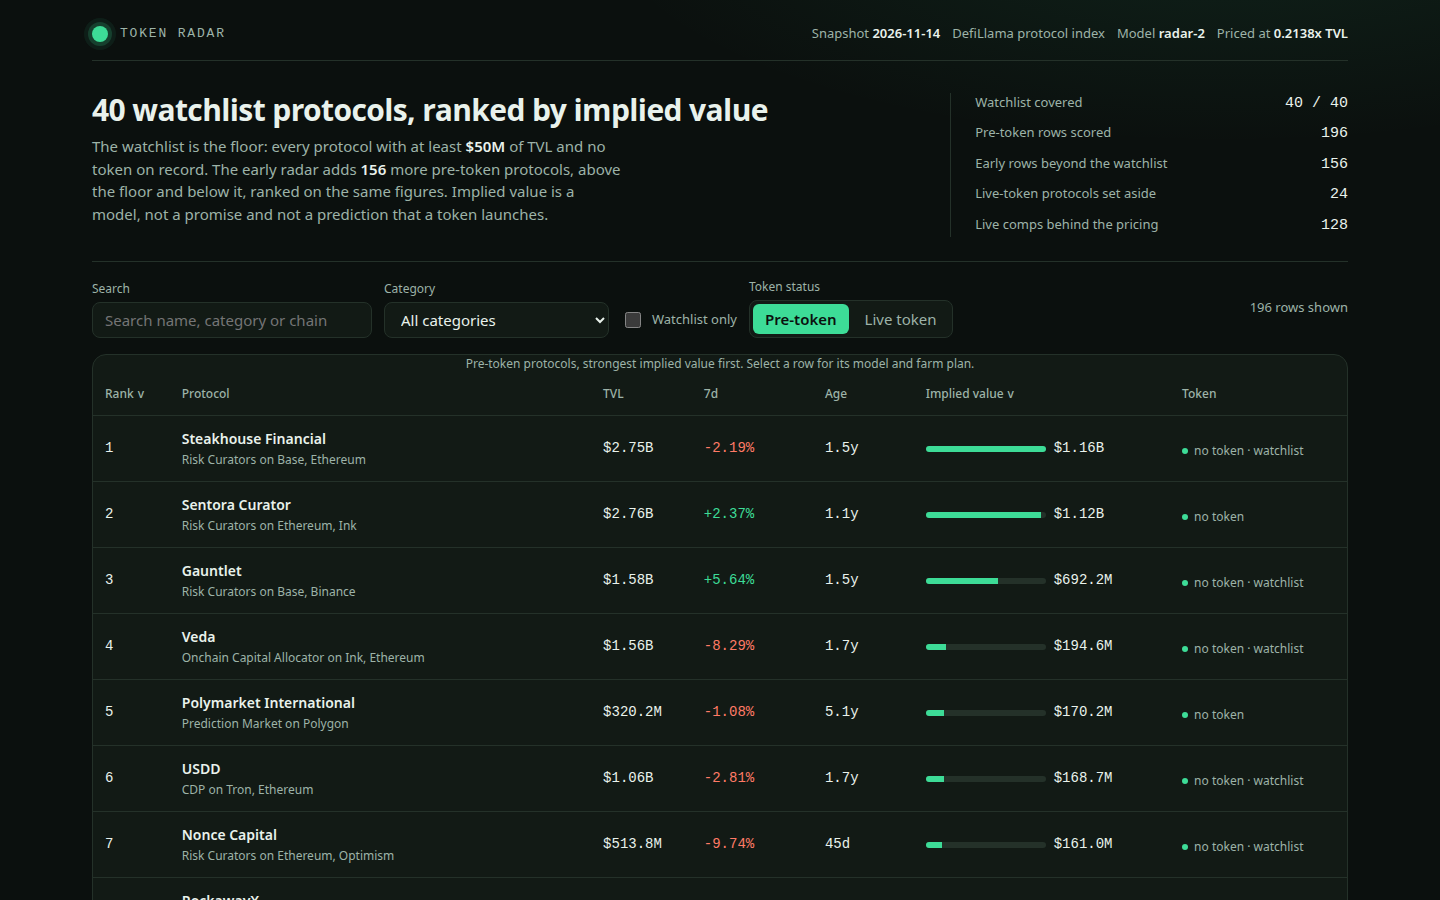
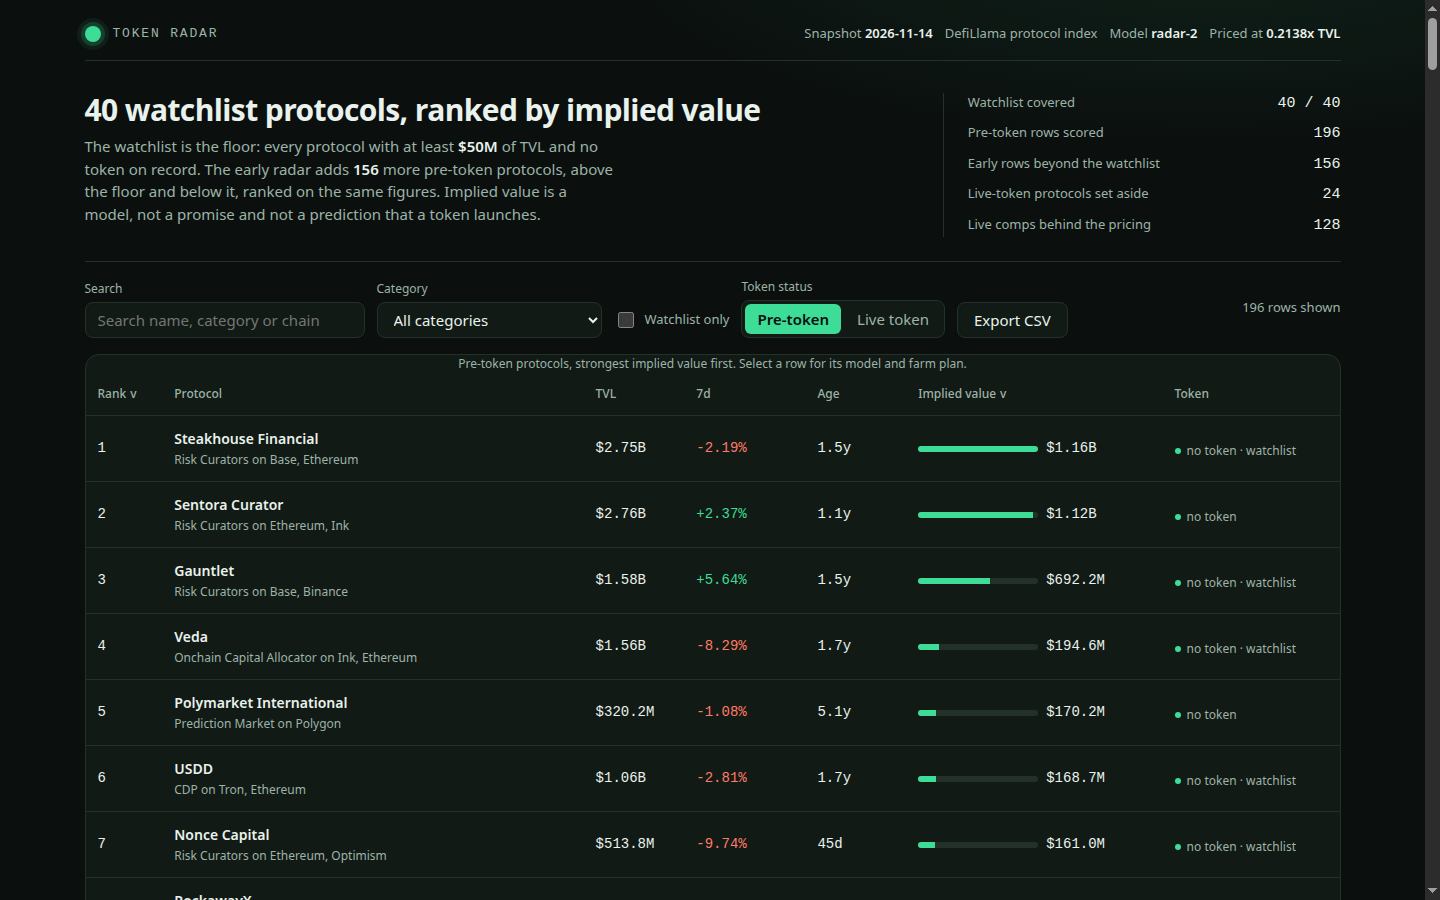
Add copy farm plan, export CSV, fix detail grammar (round 2)

diff --git a/dashboard/app.js b/dashboard/app.js
@@ -33,6 +33,7 @@
     if (days >= 365) return (days / 365).toFixed(1) + 'y';
     return Math.max(0, Math.round(days)) + 'd';
   }
+  function plural(n, one, many) { return n === 1 ? one : many; }
   function round4(n) { return Math.round(n * 1e4) / 1e4; }
   function median(values) {
     if (!values.length) return null;
@@ -210,6 +211,36 @@
     ].map(stepText);
   }
 
+  // The farm plan as plain text, for the copy button: one numbered line per step,
+  // headed with the protocol and the snapshot it was priced from.
+  function farmPlanText(row, steps) {
+    var lines = [row.name + ' — farm plan (Token Radar, snapshot ' + DATA.as_of + ')'];
+    steps.forEach(function (s, i) { lines.push((i + 1) + '. ' + s); });
+    lines.push('Implied value is a model, not a price. Not financial advice.');
+    return lines.join('\n');
+  }
+  // Copy with the Clipboard API where it exists, falling back to a hidden
+  // textarea and execCommand, which still works on older browsers and in
+  // pages served from a file. The callback reports whether it worked.
+  function copyText(text, done) {
+    function fallback() {
+      var ta = document.createElement('textarea');
+      ta.value = text;
+      ta.setAttribute('readonly', '');
+      ta.style.position = 'fixed';
+      ta.style.opacity = '0';
+      document.body.appendChild(ta);
+      ta.select();
+      var ok = false;
+      try { ok = document.execCommand('copy'); } catch (e) { ok = false; }
+      document.body.removeChild(ta);
+      done(ok);
+    }
+    if (navigator.clipboard && navigator.clipboard.writeText) {
+      navigator.clipboard.writeText(text).then(function () { done(true); }, function () { fallback(); });
+    } else fallback();
+  }
+
   function readHash() {
     var hash = window.location.hash.replace(/^#/, '');
     if (!hash) return;
@@ -255,6 +286,47 @@
       if (av > bv) return state.dir;
       return a.slug < b.slug ? -1 : a.slug > b.slug ? 1 : 0;
     });
+  }
+
+  // CSV export of the rows the board is showing right now: the same filters
+  // (search, category, watchlist, tab) and the same sort order as the table.
+  // Values are quoted when they hold a comma, a quote or a newline.
+  function csvCell(v) {
+    var s = v === null || v === undefined ? '' : String(v);
+    if (/[",\n]/.test(s)) return '"' + s.replace(/"/g, '""') + '"';
+    return s;
+  }
+  function downloadCsv(filename, text) {
+    var blob = new Blob([text], { type: 'text/csv;charset=utf-8' });
+    var url = URL.createObjectURL(blob);
+    var a = document.createElement('a');
+    a.href = url;
+    a.download = filename;
+    document.body.appendChild(a);
+    a.click();
+    document.body.removeChild(a);
+    window.setTimeout(function () { URL.revokeObjectURL(url); }, 1000);
+  }
+  function exportCsv() {
+    var live = state.tab === 'live';
+    var list = live ? DATA.live : sortedRows(rows());
+    var header = live
+      ? ['status', 'protocol', 'category', 'chains', 'tvl_usd', 'change_7d_pct', 'age_days', 'mcap_usd']
+      : ['rank', 'protocol', 'category', 'chains', 'tvl_usd', 'change_7d_pct', 'age_days', 'implied_value_usd'];
+    var lines = [header.map(csvCell).join(',')];
+    list.forEach(function (r) {
+      lines.push([
+        live ? 'live' : r.rank,
+        r.name,
+        r.category || '',
+        (r.chains || []).join('; '),
+        r.tvl_usd,
+        r.change_7d === null || r.change_7d === undefined ? '' : r.change_7d,
+        r.age_days === null || r.age_days === undefined ? '' : r.age_days,
+        live ? (r.mcap_usd === null || r.mcap_usd === undefined ? '' : r.mcap_usd) : r.implied_value_usd
+      ].map(csvCell).join(','));
+    });
+    downloadCsv('token-radar-' + (live ? 'live' : 'board') + '.csv', lines.join('\r\n') + '\r\n');
   }
 
   function header() {
@@ -309,6 +381,7 @@
       el('div', { class: 'field' }, el('label', { for: 'category', text: 'Category' }), select),
       el('label', { class: 'check', for: 'watchlist' }, watch, 'Watchlist only'),
       el('div', { class: 'field' }, el('span', { class: 'sub', text: 'Token status' }), el('div', { class: 'tabs' }, pre, live)),
+      el('button', { class: 'button', type: 'button', text: 'Export CSV', onclick: exportCsv }),
       el('span', { class: 'count', text: state.tab === 'pre-token' ? rows().length + ' rows shown' : DATA.live.length + ' live-token protocols' })
     );
   }
@@ -468,7 +541,7 @@
       el('h3', { text: 'Implied value' }),
       el('div', { class: 'equation' },
         el('div', null, el('span', { text: 'TVL' }), el('b', { class: 'num', text: fmtUsd(row.tvl_usd) })),
-        el('div', null, el('span', { text: 'Category multiple' }), el('b', { class: 'num', text: row.category_multiple.toFixed(3) + 'x' + (cat.live_count > 0 ? ' (' + cat.live_count + ' live comps, median ' + (cat.median_ratio === null ? 'n/a' : cat.median_ratio.toFixed(3) + 'x') + ')' : ' (no live comps, global)') })),
+        el('div', null, el('span', { text: 'Category multiple' }), el('b', { class: 'num', text: row.category_multiple.toFixed(3) + 'x' + (cat.live_count > 0 ? ' (' + cat.live_count + ' live ' + plural(cat.live_count, 'comp', 'comps') + ', median ' + (cat.median_ratio === null ? 'n/a' : cat.median_ratio.toFixed(3) + 'x') + ')' : ' (no live comps, global)') })),
         el('div', null, el('span', { text: 'Seven-day growth' }), el('b', { class: 'num', text: fmtPct(row.change_7d) })),
         el('div', null, el('span', { text: 'Age with no token' }), el('b', { class: 'num', text: fmtAge(row.age_days) })),
         el('div', null, el('span', { text: 'Growth multiplier' }), el('b', { class: 'num', text: String(row.growth_multiplier) })),
@@ -484,7 +557,32 @@
         var action = at >= 0 ? s.slice(0, at) : s;
         var tail = at >= 0 ? s.slice(at + 1) : '';
         return el('li', null, el('b', { text: action }), el('span', { class: 'cost', text: tail }));
-      }))
+      })),
+      el('div', { class: 'copy-row' },
+        el('button', {
+          class: 'button', type: 'button', text: 'Copy farm plan',
+          'aria-label': 'Copy the farm plan as plain text',
+          onclick: function (e) {
+            var btn = e.currentTarget;
+            var note = btn.parentNode.querySelector('.copy-note');
+            btn.disabled = true;
+            copyText(farmPlanText(row, steps), function (ok) {
+              btn.disabled = false;
+              if (ok) {
+                btn.textContent = 'Copied';
+                if (note) note.textContent = 'Farm plan copied to the clipboard.';
+              } else if (note) {
+                note.textContent = 'Copy failed — select the steps and copy them by hand.';
+              }
+              window.setTimeout(function () {
+                btn.textContent = 'Copy farm plan';
+                if (note) note.textContent = '';
+              }, 3000);
+            });
+          }
+        }),
+        el('span', { class: 'copy-note', 'aria-live': 'polite' })
+      )
     ));
     if (typeof dialog.showModal === 'function') {
       if (!dialog.open) dialog.showModal();

diff --git a/dashboard/app.css b/dashboard/app.css
@@ -124,6 +124,9 @@ tbody tr[data-selected="true"] { background: rgba(61, 220, 151, 0.08); }
 .empty p { color: var(--muted); }
 .button { min-height: 36px; padding: 0 var(--step-4); border: 1px solid var(--border); border-radius: var(--radius-control); background: var(--surface); color: var(--ink); }
 .button.primary { background: var(--accent); border-color: var(--accent); color: var(--accent-ink); font-weight: 600; }
+.button:disabled { opacity: 0.55; cursor: default; }
+.copy-row { display: flex; align-items: center; gap: var(--step-3); margin-top: var(--step-4); flex-wrap: wrap; }
+.copy-note { color: var(--accent); font-size: 13px; }
 .foot { margin-top: var(--step-5); color: var(--faint); font-size: 12px; display: grid; gap: var(--step-1); }
 
 .detail {
